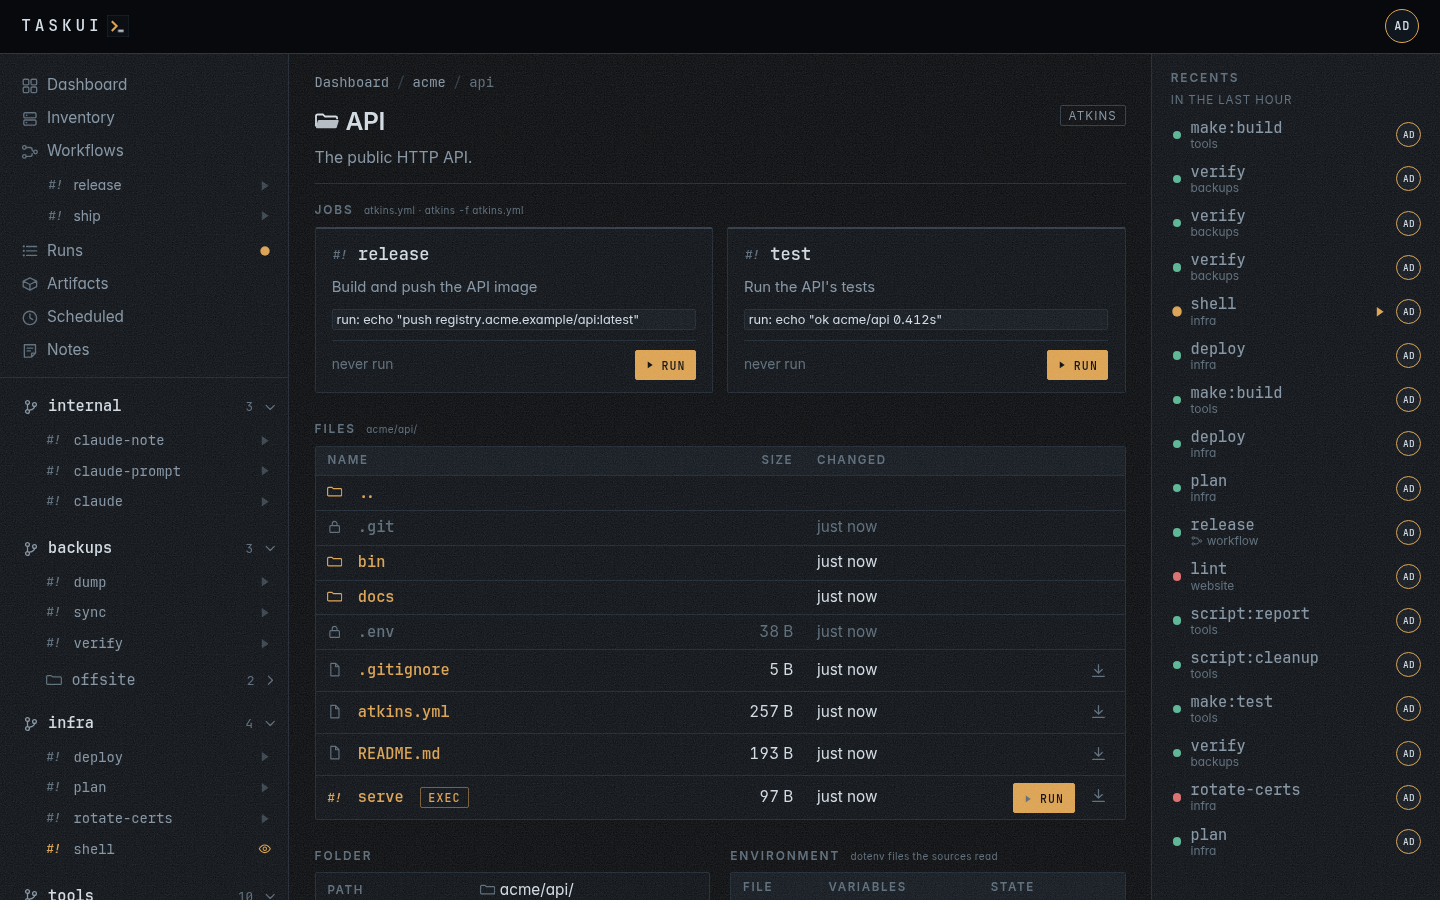
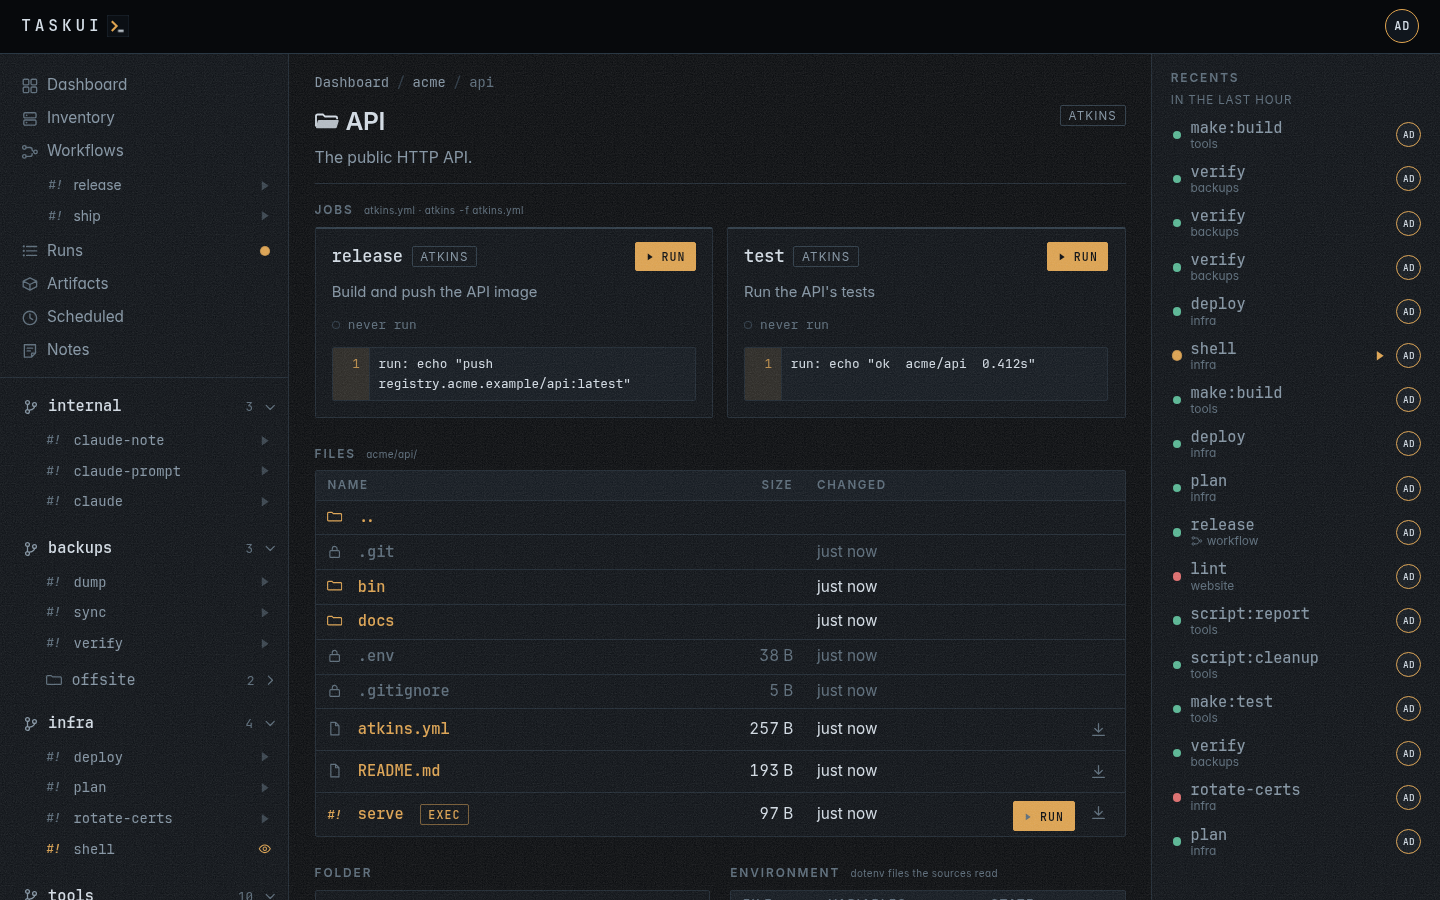
Folders: the job card as a code block, one meta row
A job card is four rows the cards of a grid row share through subgrid:
the name with its kind badge and Run or Attach; the description, left
out when it repeats the name or the first step (npm scripts, atkins
jobs without a desc); the state, when and who on one baseline; and what
the job runs as numbered lines in a gutter washed in the accent. Past
three lines the rest open in place behind "show N more", a details
element that reads without a script; the script mirrors its state into
aria-expanded. Dependencies read as a "# after" comment line, and a job
without steps shows its command.

diff --git a/frontend/view/assets/css/jobs.css b/frontend/view/assets/css/jobs.css
@@ -1,7 +1,8 @@
 /* -------------------------------------------------------------- job cards */
 
-/* A folder's jobs as cards, as many as it has: the name, what it does, the
-   first steps, how it last went, and Run. The grid takes the width. */
+/* A folder's jobs as cards, as many as it has. The cards of a row share
+   four rows, so the names, the descriptions, the last runs and the code
+   blocks line up across the row whatever each card holds. */
 .jobcards {
   display: grid;
   grid-template-columns: repeat(auto-fill, minmax(19rem, 1fr));
@@ -9,11 +10,12 @@
 }
 
 .jobcard {
-  display: flex;
-  flex-direction: column;
-  gap: 0.5rem;
+  display: grid;
+  grid-row: span 4;
+  grid-template-rows: subgrid;
+  row-gap: 0.55rem;
   min-width: 0;
-  padding: 0.8rem 0.95rem 0.75rem;
+  padding: 0.75rem 0.95rem 0.9rem;
   border: 1px solid var(--line);
   border-top: 2px solid var(--line-2);
   border-radius: var(--radius);
@@ -28,15 +30,18 @@
     border-top-color: var(--signal);
   }
 
+  /* The name, its kind, and Run at the end of the row. */
   & header {
     display: flex;
     align-items: center;
     gap: 0.5rem;
     min-width: 0;
+    min-height: var(--control-sm);
 
+    /* Short of room, the badges give way before the name does. */
     & .name {
-      flex: 1;
-      min-width: 0;
+      flex: 0 1 auto;
+      min-width: 4ch;
       overflow: hidden;
       text-overflow: ellipsis;
       white-space: nowrap;
@@ -48,6 +53,21 @@
         color: var(--signal);
         text-decoration: none;
       }
+    }
+
+    & .badge {
+      flex: 0 100 auto;
+      min-width: 0;
+      overflow: hidden;
+      text-overflow: ellipsis;
+    }
+
+    & .actions {
+      display: inline-flex;
+      flex: none;
+      align-items: center;
+      gap: 0.35rem;
+      margin-inline-start: auto;
     }
   }
 
@@ -61,51 +81,143 @@
     overflow: hidden;
   }
 
-  & .steps {
+  /* How it last went, one line in one order: the dot, the state, when,
+     who. One size of text centred in a row the avatar's height, so the
+     state and the time sit on one baseline, in every card. */
+  & .meta {
     display: flex;
-    flex-direction: column;
-    gap: 0.15rem;
-    min-width: 0;
-    font-size: var(--fs-button);
-
-    & code {
-      display: block;
-      overflow: hidden;
-      text-overflow: ellipsis;
-      white-space: nowrap;
-      font-size: var(--fs-xs);
-    }
-
-    &:empty {
-      display: none;
-    }
-  }
-
-  & footer {
-    position: static;
-    display: flex;
-    flex-direction: row;
     align-items: center;
-    gap: 0.5rem;
-    margin-top: auto;
-    padding: 0.5rem 0 0;
-    border-top: 1px solid var(--line);
+    gap: 0.45rem;
+    min-width: 0;
+    height: round(1.45rem, 1px);
     color: var(--text-dim);
-    font-size: var(--fs-sm);
-    text-align: start;
+    font-family: var(--font);
+    font-size: var(--fs-xs);
+    line-height: 1;
+    white-space: nowrap;
 
-    & .last {
-      flex: 1;
-      min-width: 0;
-      overflow: hidden;
-      text-overflow: ellipsis;
-      white-space: nowrap;
+    & .state-label {
+      color: var(--text);
+
+      &.faint {
+        color: var(--text-faint);
+      }
     }
 
-    & .actions {
+    & .when::before,
+    & .who-ran::before {
+      content: "·";
+      margin-inline-end: 0.45rem;
+      color: var(--text-faint);
+    }
+
+    & .who-ran {
       display: inline-flex;
       align-items: center;
       gap: 0.35rem;
+      min-width: 0;
+      overflow: hidden;
+      text-overflow: ellipsis;
+
+      &::before {
+        margin-inline-end: 0;
+      }
+    }
+  }
+
+  /* What it runs, as a code block: numbered lines in a gutter washed in
+     the accent. Long lines wrap inside the block. */
+  & .code {
+    --gutter: 2.1rem;
+    min-width: 0;
+    padding: 0.35rem 0;
+    border: 1px solid var(--line);
+    border-radius: var(--radius);
+    background:
+      linear-gradient(to right, var(--signal-wash) var(--gutter), var(--line) var(--gutter) calc(var(--gutter) + 1px), transparent calc(var(--gutter) + 1px)),
+      var(--ink-2);
+    font-family: var(--font);
+    font-size: var(--fs-xs);
+    line-height: 1.6;
+
+    & ol {
+      margin: 0;
+      padding: 0;
+      list-style: none;
+      counter-reset: line;
+    }
+
+    & ol[start="4"] {
+      counter-reset: line 3;
+    }
+
+    & :is(li, .comment, summary) {
+      display: grid;
+      grid-template-columns: var(--gutter) minmax(0, 1fr);
+      column-gap: 0.6rem;
+      padding-inline-end: 0.6rem;
+    }
+
+    & li {
+      color: var(--text);
+      white-space: pre-wrap;
+      overflow-wrap: anywhere;
+      counter-increment: line;
+
+      &::before {
+        content: counter(line);
+        padding-inline-end: 0.5rem;
+        color: var(--signal);
+        text-align: end;
+        opacity: 0.8;
+      }
+    }
+
+    & .comment {
+      color: var(--text-faint);
+
+      &::before {
+        content: "";
+      }
+    }
+
+    /* The lines past the third open in place. The control stays under the
+       last line, open or closed, and says what it does. */
+    & details {
+      display: flex;
+      flex-direction: column-reverse;
+    }
+
+    & summary {
+      list-style: none;
+      cursor: pointer;
+      color: var(--signal);
+
+      &::-webkit-details-marker {
+        display: none;
+      }
+
+      &::before {
+        content: "";
+      }
+
+      &:hover span {
+        text-decoration: underline;
+      }
+
+      &:focus-visible {
+        outline: none;
+
+        & span {
+          outline: 1px solid var(--signal);
+          outline-offset: 1px;
+        }
+      }
+    }
+
+    & details:not([open]) .less,
+    & details[open] .more {
+      display: none;
     }
   }
 }
@@ -201,7 +313,19 @@
     opacity: 1;
   }
 
+  /* One card to a row has no neighbours to line up with: the rows close
+     up, and a card that says nothing past its name skips the line. */
   .jobcards {
     grid-template-columns: 1fr;
+  }
+
+  .jobcard {
+    display: flex;
+    flex-direction: column;
+    gap: 0.55rem;
+
+    & .desc:empty {
+      display: none;
+    }
   }
 }

diff --git a/frontend/view/assets/task-ui.js b/frontend/view/assets/task-ui.js
@@ -2453,6 +2453,16 @@
     return "/api/runs/" + encodeURIComponent(runId) + "/frame.svg" + (all ? "?all=1" : "");
   }
 
+  // A job card's "show N more" is a details element, open without a
+  // script; its summary says aloud whether the lines past the third show.
+  function syncMore(details) {
+    details.querySelector(":scope > summary").setAttribute("aria-expanded", details.open ? "true" : "false");
+  }
+  document.querySelectorAll(".jobcard .code details").forEach(syncMore);
+  document.addEventListener("toggle", function (event) {
+    if (event.target.matches && event.target.matches(".jobcard .code details")) syncMore(event.target);
+  }, true);
+
   // Expand on a step's row asks the API for the run's whole output and
   // shows it in place of the last screen; Collapse puts back the screen
   // it kept, with no request.

diff --git a/frontend/folder_test.go b/frontend/folder_test.go
@@ -31,7 +31,7 @@ func TestFolder(t *testing.T) {
 	assert.Contains(t, body, `data-run data-folder="infra" data-job="plan"`)
 	assert.Contains(t, body, `data-force data-folder="infra" data-job="plan"`)
 	assert.Equal(t, 1, strings.Count(body, "data-force"), "only plan has hours")
-	assert.Contains(t, body, `<i class="dot failed"></i>failed`)
+	assert.Contains(t, body, `<i class="dot failed"></i><span class="state-label">failed`)
 	assert.Contains(t, body, ".env")
 	assert.Contains(t, body, `class="badge bad">missing`)
 	assert.NotContains(t, body, "/f/_/infra/env/.env") // admins edit env files
@@ -74,7 +74,8 @@ func TestFolder_Running(t *testing.T) {
 	session := f.start(t, f.infra, "slow")
 
 	body := f.page(t, asOps, "/f/_/infra")
-	assert.Contains(t, body, "running, ops")
+	assert.Contains(t, body, `<i class="dot running"></i><span class="state-label">running</span>`)
+	assert.Contains(t, body, `<span class="when">just now</span><span class="who-ran"><span class="avatar sm role-runner" title="ops">OP</span> ops</span></div>`)
 	assert.Contains(t, body, `data-attach="`+session.ID()+`"`)
 	assert.Contains(t, body, `data-kill="`+session.ID()+`"`)
 
@@ -338,4 +339,50 @@ func TestFolder_Namespace(t *testing.T) {
 	assert.Contains(t, admin, `<a href="/f/_/private">`)
 	assert.Contains(t, admin, "the root</small>")
 	assert.Contains(t, admin, `<a href="/f/acme">acme</a>`)
+}
+
+// A job card names the job once, with its kind beside it; it numbers
+// the lines it runs, shows the first three and keeps the rest behind
+// "show N more"; it drops a description that repeats the name or the
+// first step.
+func TestFolder_JobCard(t *testing.T) {
+	t.Parallel()
+	f := newFixture(t)
+	plan := f.infra.Job("plan")
+	plan.Description = "Show the plan"
+	plan.Steps = []string{"task setup:checkout", "go build ./...", "go test ./...", "docker build .", "docker push"}
+	plan.DependsOn = []string{"lint"}
+	f.infra.Job("slow").Description = "slow"
+	f.infra.Job("many").Description = "seq 1 200"
+	f.infra.Job("many").Steps = []string{"seq 1 200"}
+
+	body := f.page(t, asOps, "/f/_/infra")
+	assert.Contains(t, body, `<a class="name" href="/f/_/infra/plan">plan</a>
+				<span class="badge">script</span>`)
+	assert.Contains(t, body, `<p class="desc">Show the plan</p>`)
+	assert.Contains(t, body, `<div class="code"><div class="comment"># after lint</div>
+				<ol><li>task setup:checkout</li><li>go build ./...</li><li>go test ./...</li></ol>
+				<details>
+					<summary><span class="more">show 2 more</span><span class="less">show less</span></summary>
+					<ol start="4"><li>docker build .</li><li>docker push</li></ol>
+				</details>`)
+	// The name and the first step are not said twice.
+	slow := card(body, "slow")
+	assert.Equal(t, 1, strings.Count(slow, ">slow<"))
+	assert.Contains(t, slow, `<p class="desc"></p>`)
+	many := card(body, "many")
+	assert.Equal(t, 1, strings.Count(many, "seq 1 200"))
+	assert.Contains(t, many, `<p class="desc"></p>`)
+	// Three lines or fewer have no control; a job without steps shows its command.
+	assert.Equal(t, 1, strings.Count(body, "<details>"))
+	assert.Contains(t, body, `<ol><li>sh -c sleep 30</li></ol>`)
+	// One meta row: the state, then when, then who.
+	assert.Contains(t, body, `<div class="meta"><i class="dot pending"></i><span class="state-label faint">never run</span></div>`)
+}
+
+// card cuts the job card of a job out of a folder page.
+func card(body, job string) string {
+	_, rest, _ := strings.Cut(body, `<a class="name" href="/f/_/infra/`+job+`">`)
+	rest, _, _ = strings.Cut(rest, "</article>")
+	return `<a class="name">` + rest
 }
